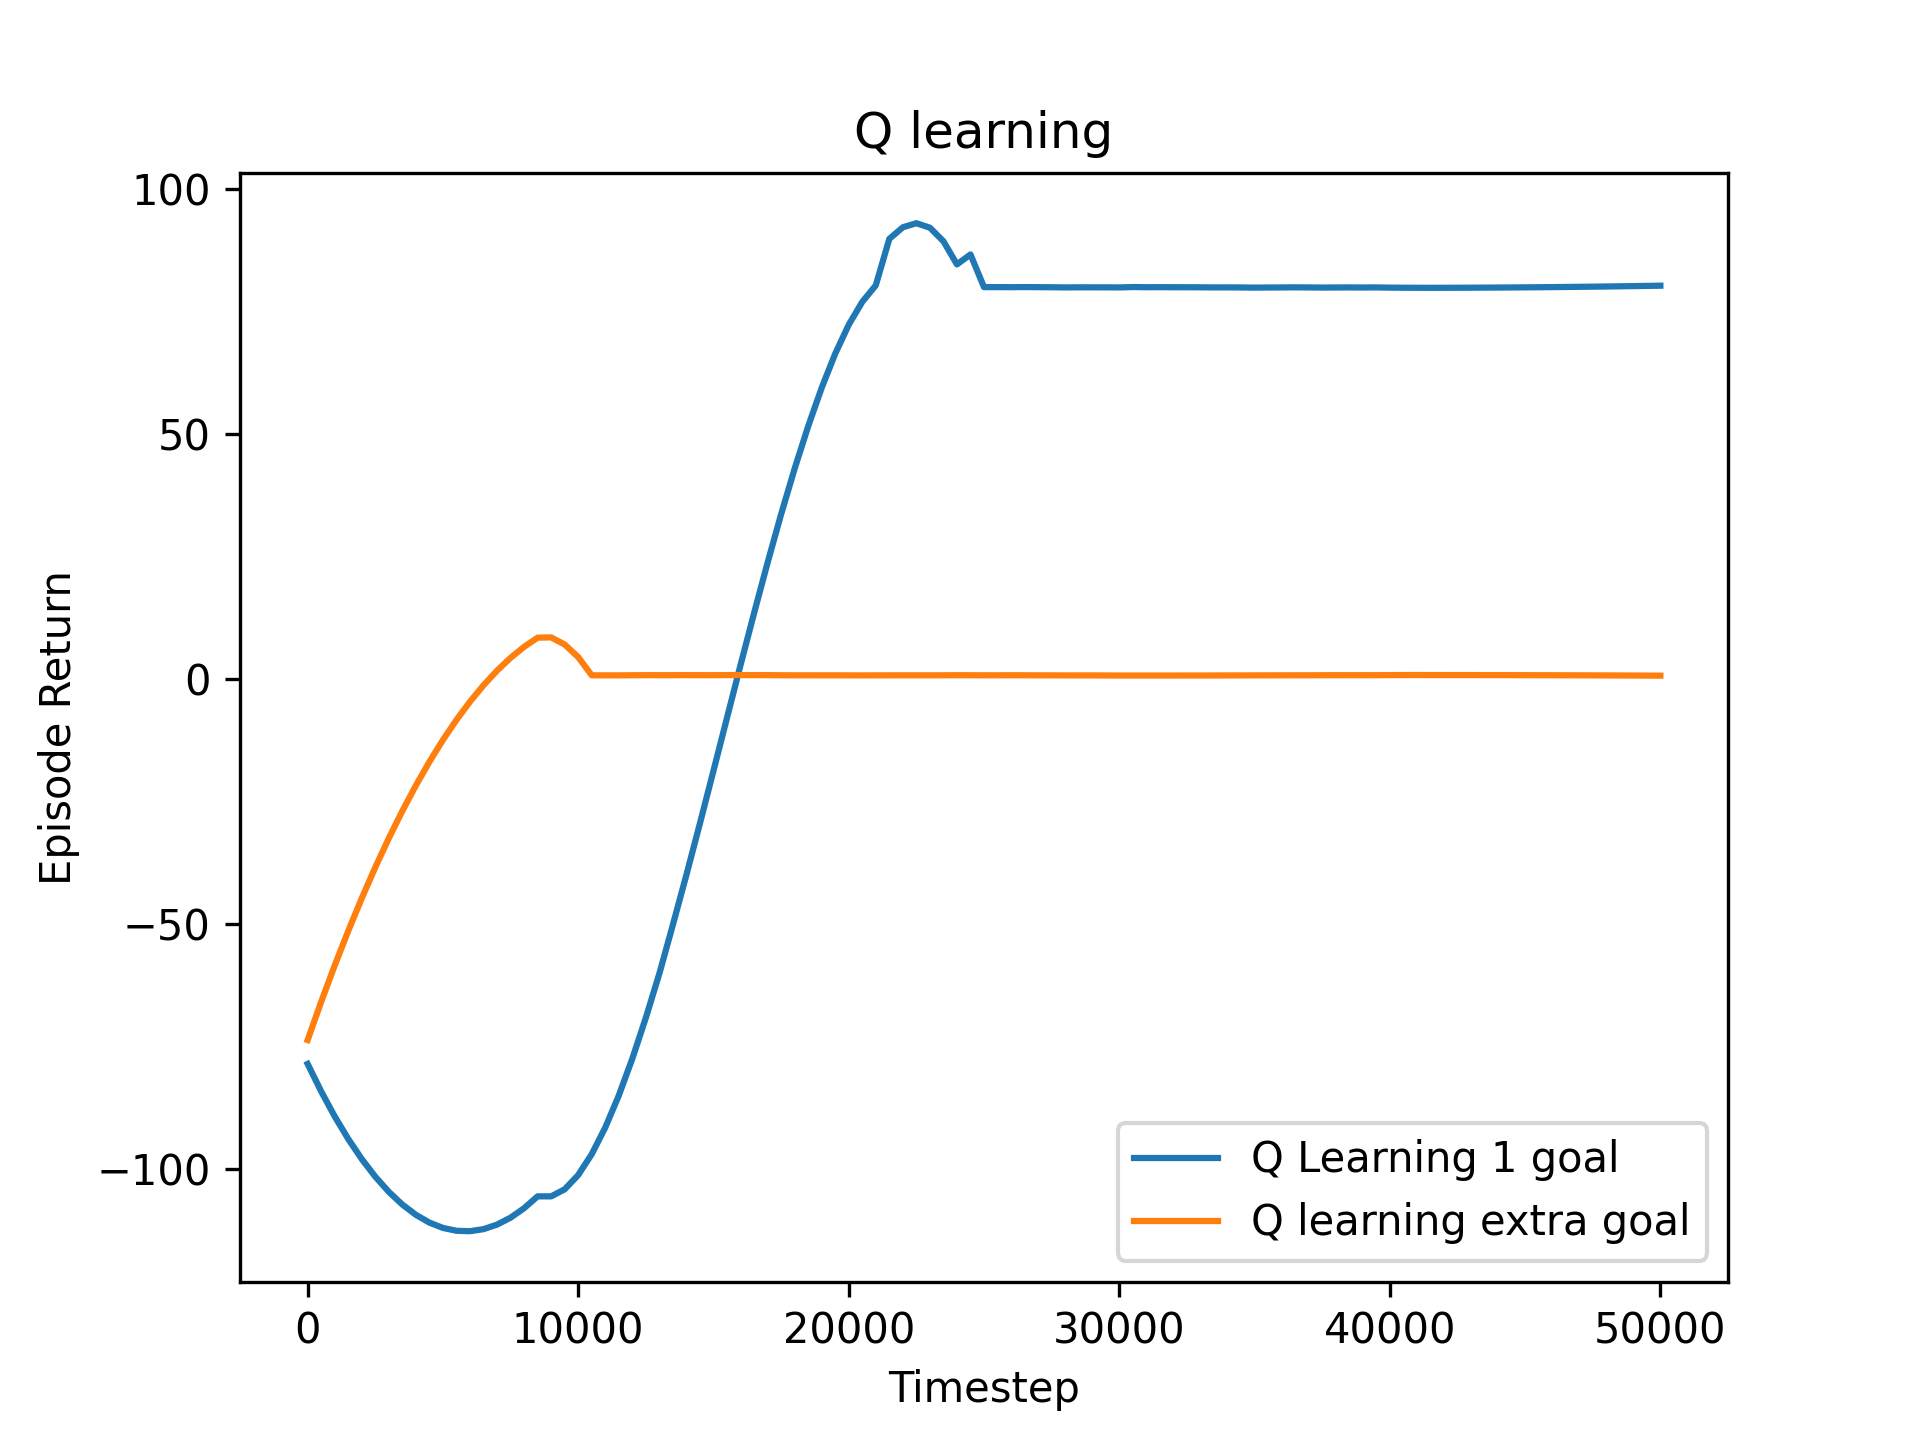
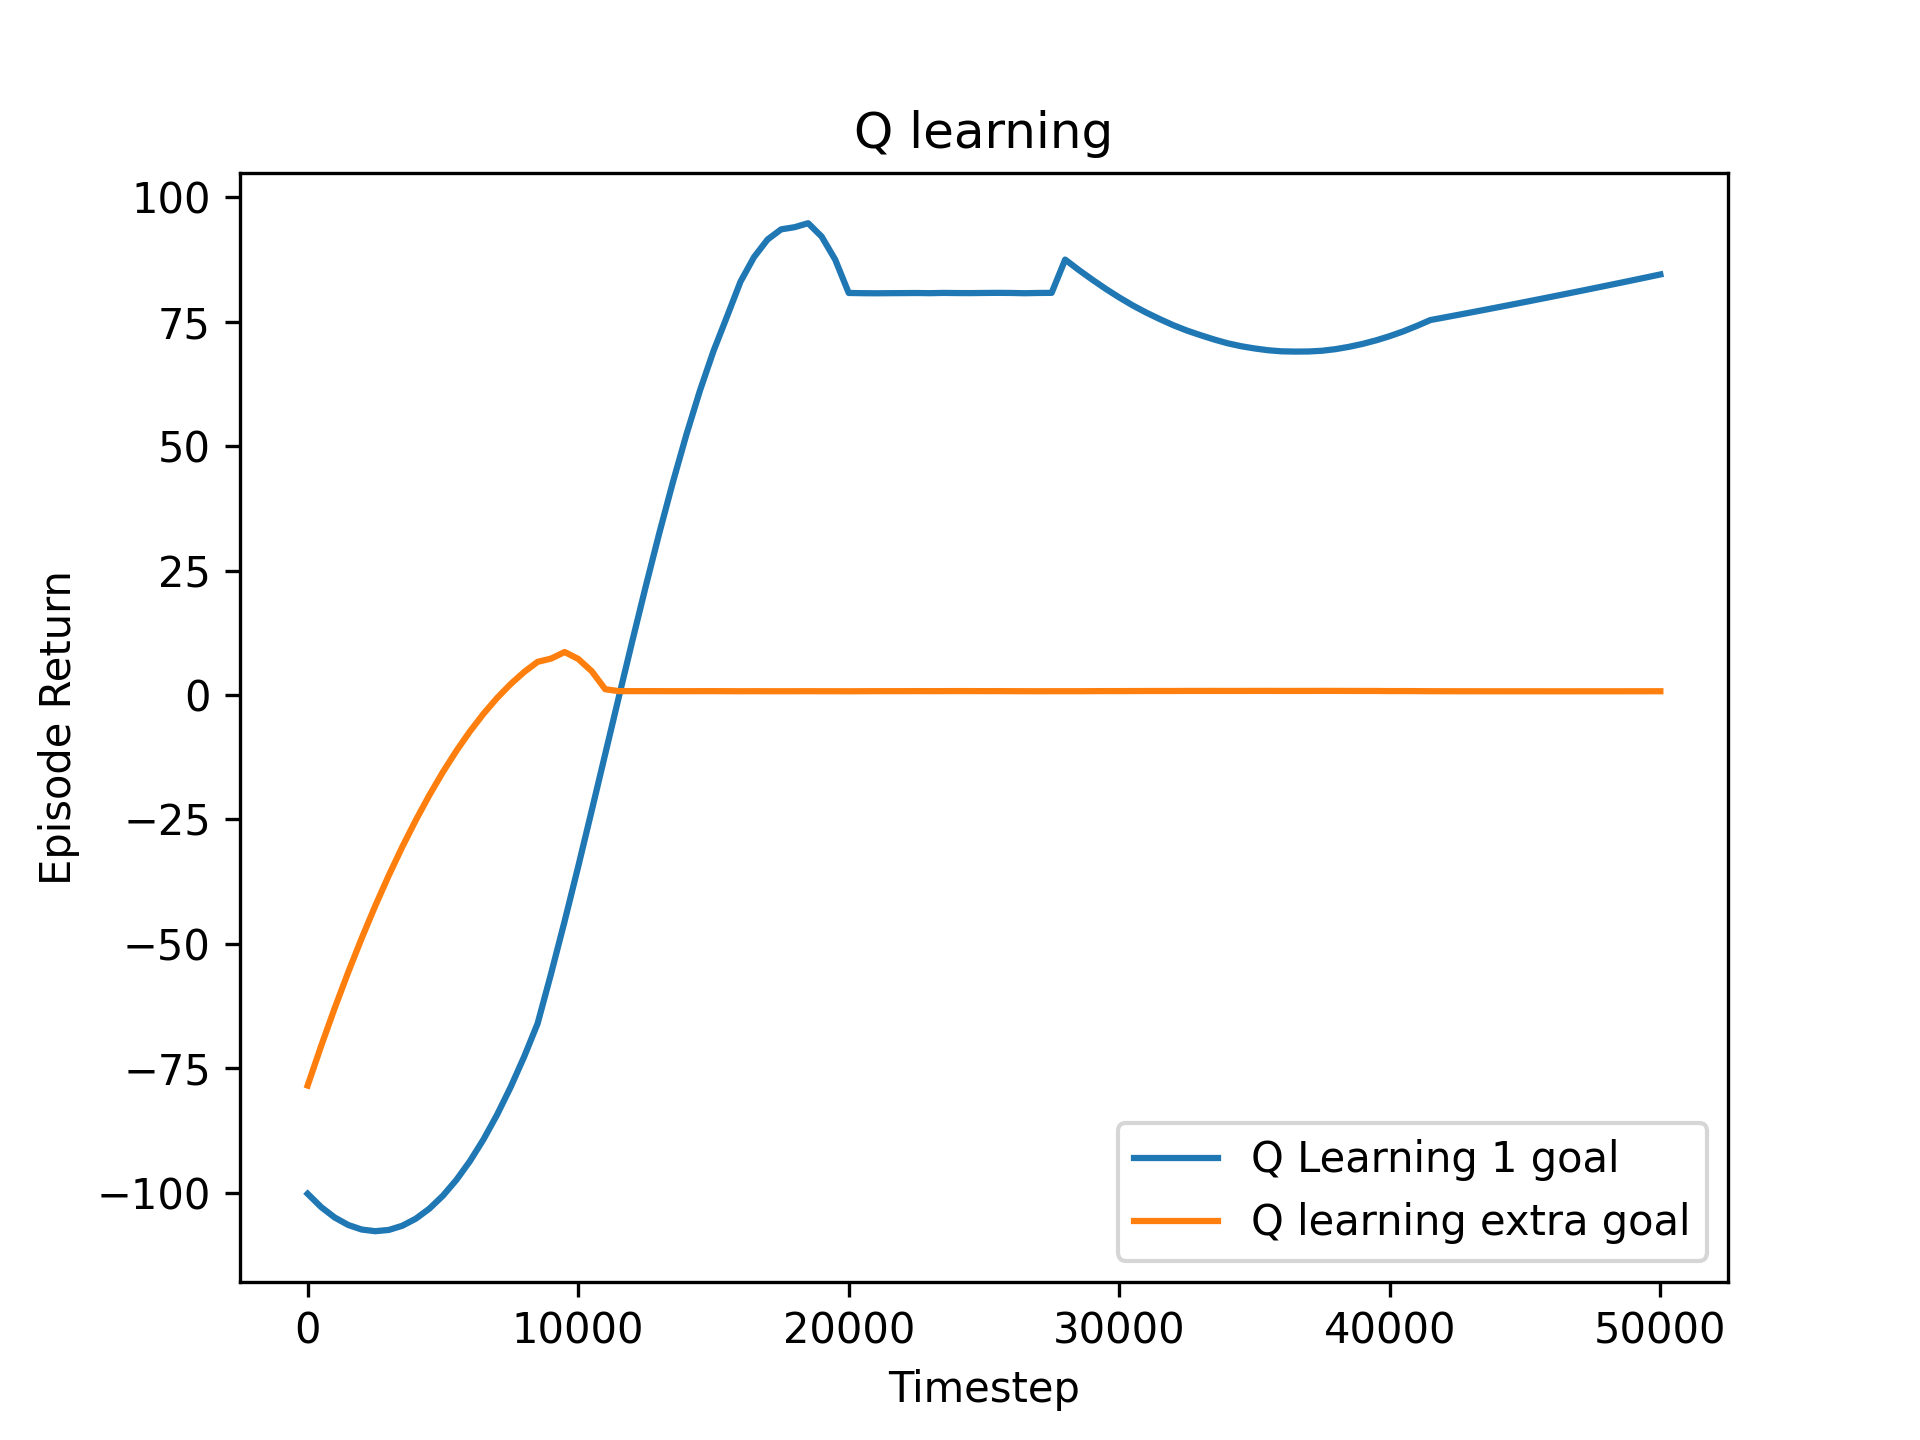
gf

diff --git a/Assignments/TRL/src/Q_learning.py b/Assignments/TRL/src/Q_learning.py
@@ -34,6 +34,7 @@ def q_learning(
     plot=True,
     eval_interval=500,
     add_extra_goal=False,
+    zero_reward = False
 ):
     """runs a single repetition of q_learning
     Return: rewards, a vector with the observed rewards at each timestep"""
@@ -57,6 +58,10 @@ def q_learning(
         env.goal_rewards = [100, 5]
         eval_env.goal_locations = [[7, 3], [3, 2]]
         eval_env.goal_rewards = [100, 5]
+
+    if zero_reward:
+        env.reward_per_step = 0 
+        eval_env.reward_per_step = 0 
     for i in range(n_timesteps):
         a = agent.select_action(
             s=s, policy=policy, epsilon=epsilon, temp=temp
@@ -136,6 +141,19 @@ def test():
 
     lcp.save("QLearningExtraGoal.png")
 
-
+    zero_reward_plot = LearningCurvePlot("Zero reward / step Q-learning.")
+    eval_returns, eval_timesteps = q_learning(
+        n_timesteps,
+        learning_rate,
+        gamma,
+        policy,
+        epsilon,
+        temp,
+        plot,
+        eval_interval,
+        zero_reward=True
+    )
+    zero_reward_plot.add_curve(eval_timesteps, smooth(eval_returns, window = 9), label="Zero reward / step Q-learning")
+    zero_reward_plot.save("ZeroRewardQLearning.pdf")
 if __name__ == "__main__":
     test()
